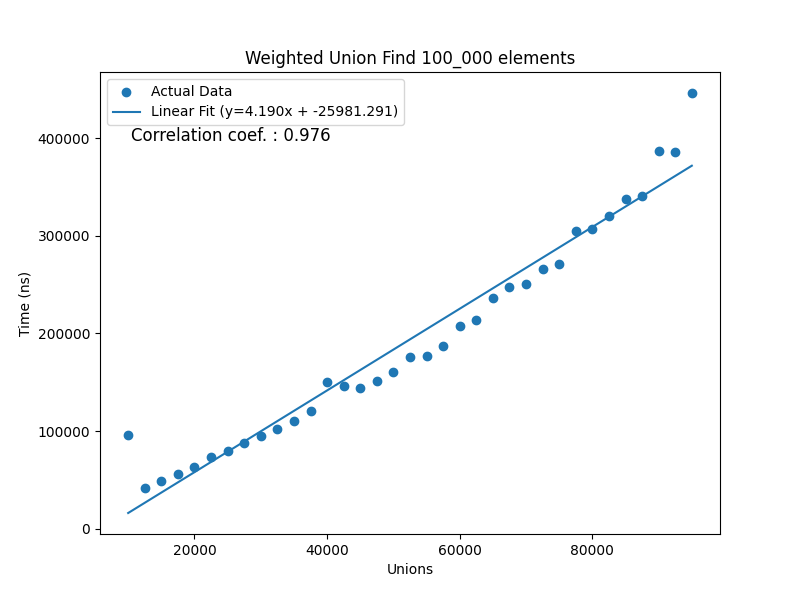
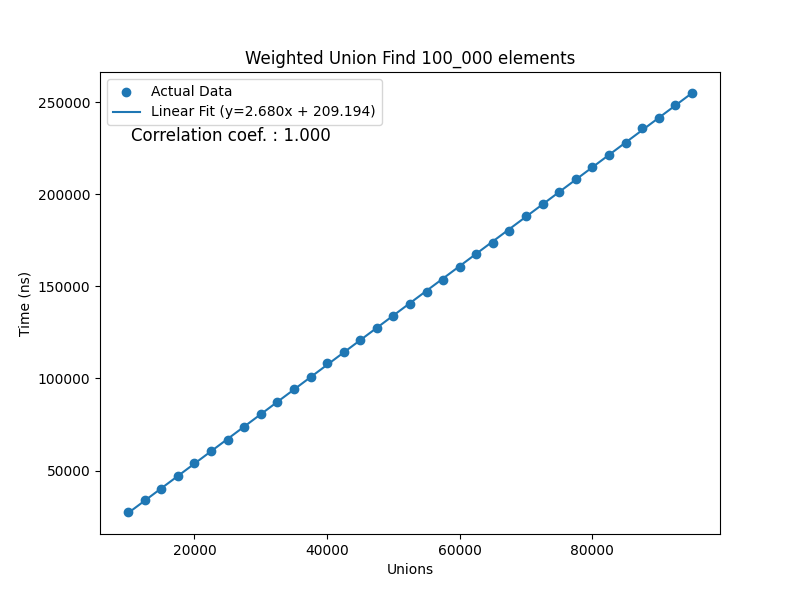
approximation working again

diff --git a/A01/src/scripts/plotter.py b/A01/src/scripts/plotter.py
@@ -68,12 +68,29 @@ def linear_regression(x: list[float], y: list[float]) -> tuple[float, float, flo
     """
     Calculate and return the slope, intercept and linear regression coefficient
     from the x and y values passed in.
-    
-    
-    """
-    
-    
+
     slope, intercept, r_value, _, _ = linregress(x, y)
+    """
+    n = len(x)
+    
+    x_bar = sum(x)/n
+    y_bar = sum(y)/n
+
+    slope = sum((xi - x_bar) * (yi - y_bar) for xi, yi in zip(x,y)) / sum((xi - x_bar)**2 for xi in x)
+
+    intercept = y_bar - slope*x_bar
+
+
+    sum_xy = sum(xi*yi for xi, yi in zip(x,y))
+    sum_x = sum(x)
+    sum_y = sum(y)
+    sum_x_sq = sum(xi**2 for xi in x)
+    sum_y_sq = sum(yi**2 for yi in y)
+
+    r_numer = n*sum_xy - sum_x*sum_y
+    r_denom = ((n*sum_x_sq - sum_x**2) * (n*sum_y_sq - sum_y**2))**0.5
+    r_value = r_numer/r_denom
+    
     
     return slope, intercept, r_value
 

diff --git a/A01/src/Plotter.java b/A01/src/Plotter.java
@@ -33,7 +33,7 @@ public class Plotter {
     private String title = "_";
     private Type type = Type.NONE;
 
-    private final String KEYWORD = "python3";
+    private final String KEYWORD = "python";
     private final String SCRIPT_PATH = "src/scripts/plotter.py";
 
     /**
